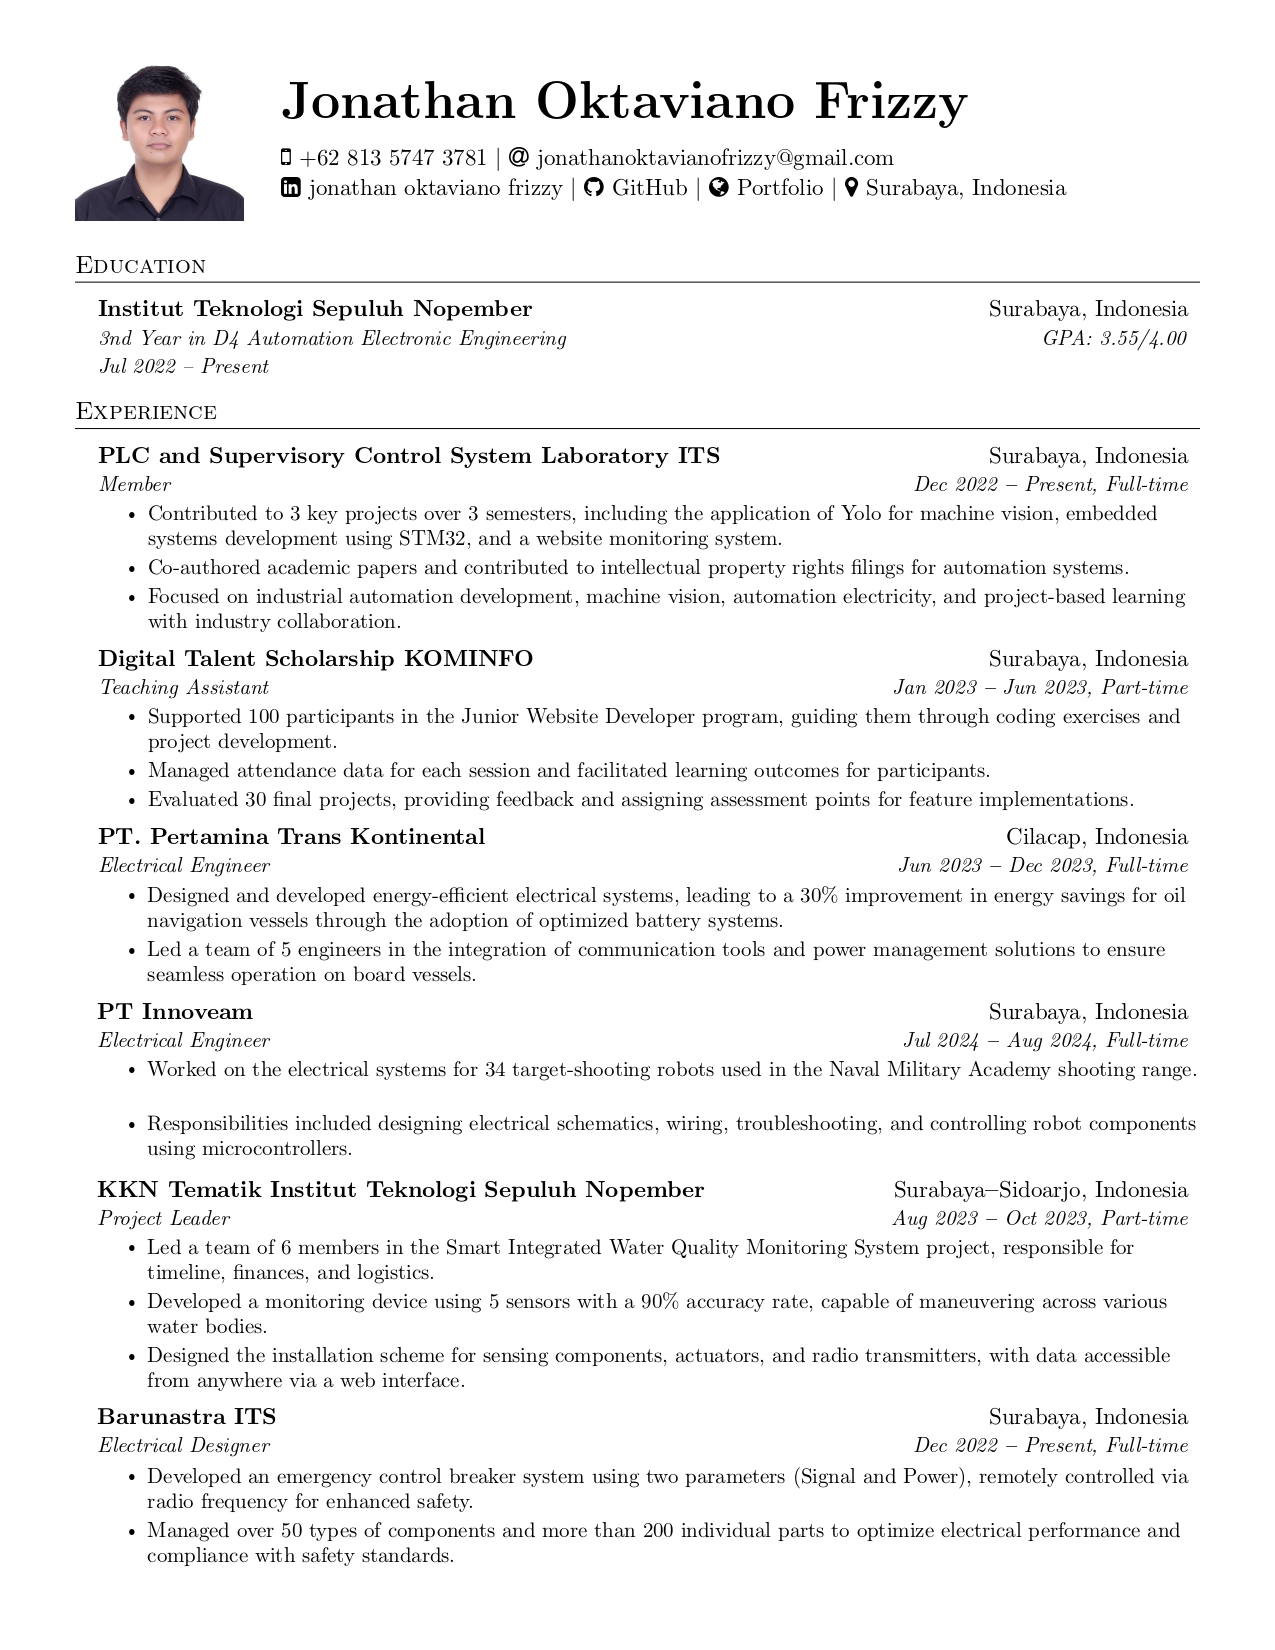
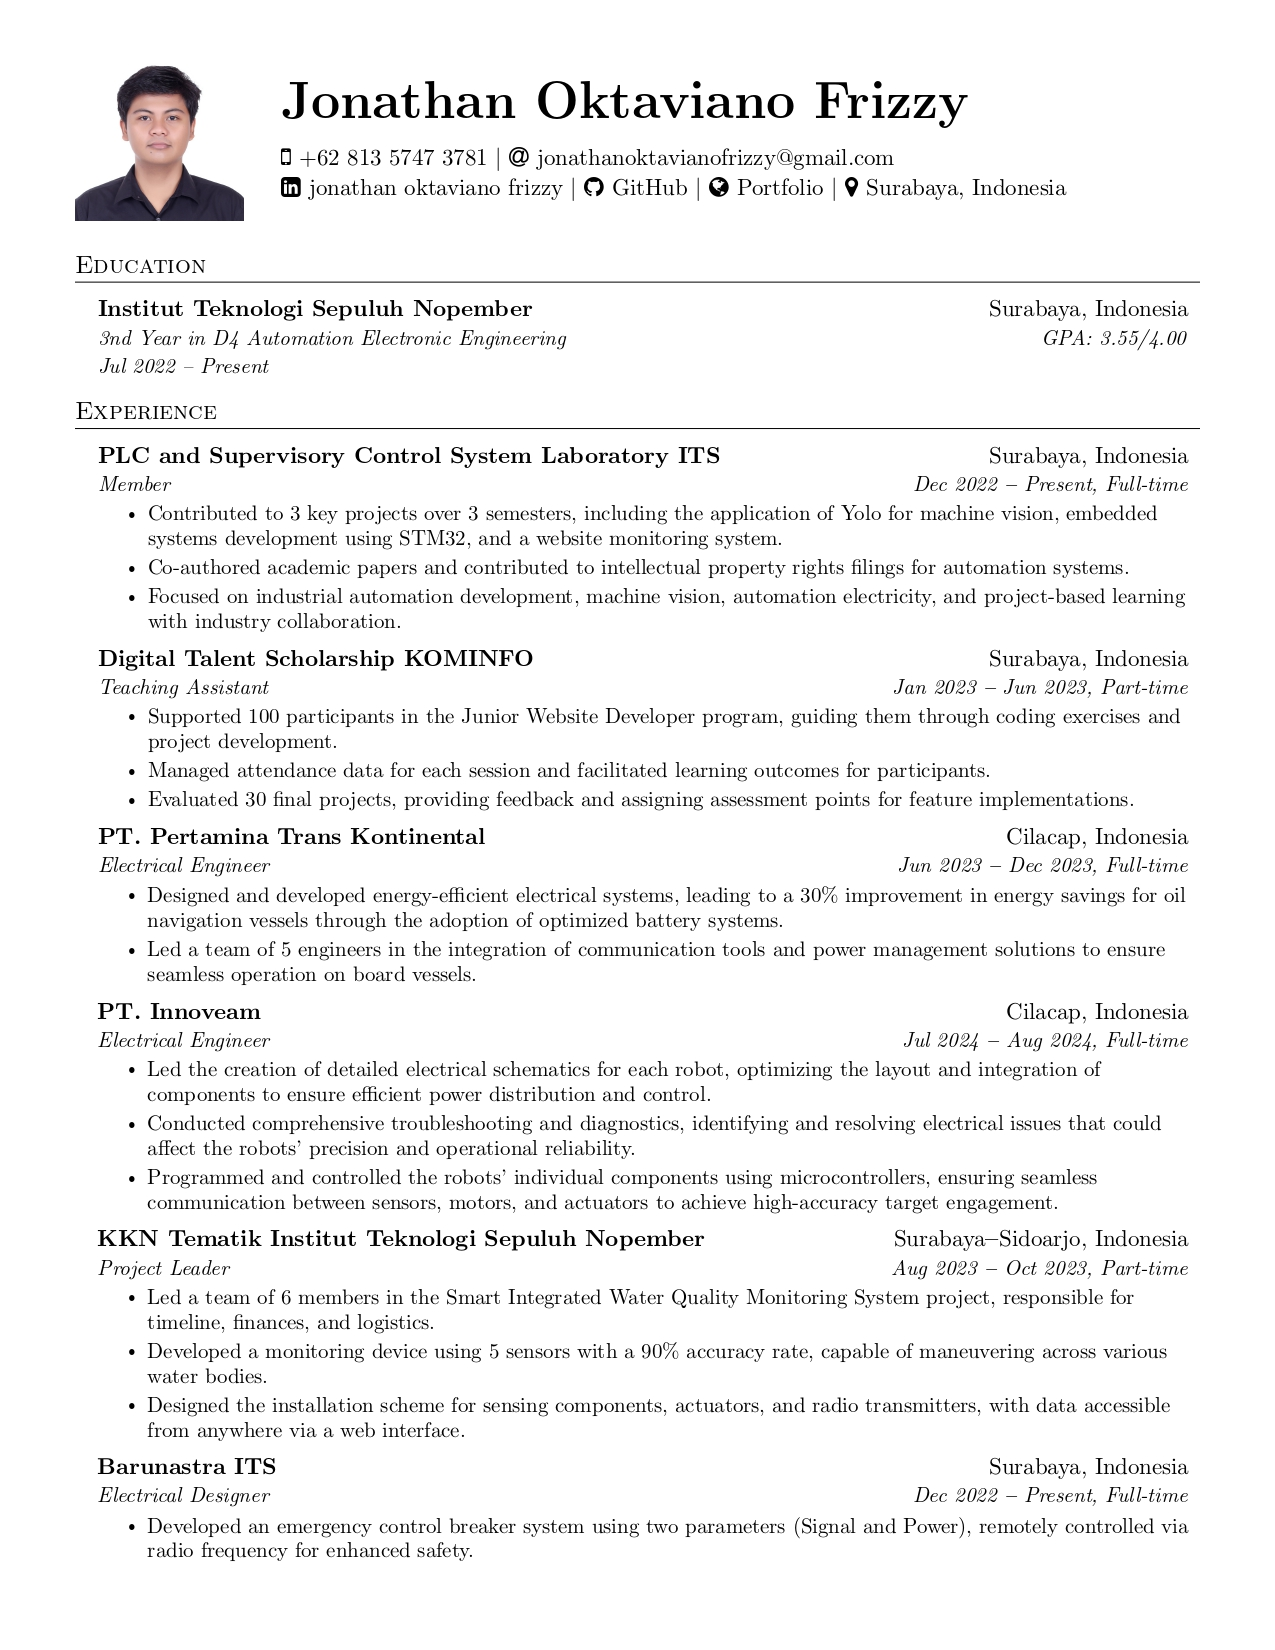
更新: CV 国際標準

diff --git a/main.tex b/main.tex
@@ -215,13 +215,13 @@
     \resumeItemListEnd
 
     \resumeSubheading
-      {PT Innoveam}{Surabaya, Indonesia}
+      {PT. Innoveam}{Cilacap, Indonesia}
       {Electrical Engineer}{Jul 2024 \textbf{--} Aug 2024, Full-time}
         \resumeItemListStart
-            \resumeItem{Worked on the electrical systems for 34 target-shooting robots used in the Naval Military Academy shooting range.}
-            \resumeItem{Responsibilities included designing electrical schematics, wiring, troubleshooting, and controlling robot components using microcontrollers.}
+            \resumeItem{Led the creation of detailed electrical schematics for each robot, optimizing the layout and integration of components to ensure efficient power distribution and control.}
+            \resumeItem{Conducted comprehensive troubleshooting and diagnostics, identifying and resolving electrical issues that could affect the robots' precision and operational reliability.}
+            \resumeItem{Programmed and controlled the robots’ individual components using microcontrollers, ensuring seamless communication between sensors, motors, and actuators to achieve high-accuracy target engagement.}
     \resumeItemListEnd
-    \vspace{2pt}
     
     \resumeSubheading
       {KKN Tematik Institut Teknologi Sepuluh Nopember}{Surabaya\textbf{--}Sidoarjo, Indonesia}
